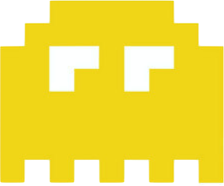
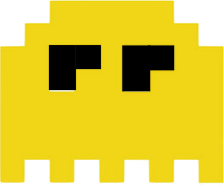
[sprites/ boss] updates enemy sprites. Added death animation to boss

Changed region(s): [[0.1875, 0.2419, 0.4688, 0.5108], [0.5312, 0.2419, 0.7812, 0.5108]]

diff --git a/app.js b/app.js
@@ -17,7 +17,8 @@ const bossSound = document.getElementById('bossSound')
 
 
 // fix button glitch after beating boss
-// add health points to boss
+let bossShooting = 1
+let alienRender = 1
 let alienFireRate = 1300
 let playerFireRate = 0
 let points = 50
@@ -215,7 +216,7 @@ function levelUp() {
     for (let row = 0; row < 5; row++) {
     for(let col = 0; col < 10; col++) {
         const alien = new Aliens (
-            col * 45 + 46, row * 27 + 25, 27,20
+            col * 45 + 46, row * 27 + 25, 35,20
         )
         arrAliens.push(alien)
         }
@@ -520,7 +521,7 @@ class Bullets {
 let fireStatus = true
 const arrBullets = [];
 document.addEventListener('keydown', function(evt) {
-    if (evt.key === 'a' && fireStatus === true && gmLive === 1|| evt.key === 'A' && fireStatus === true && gmLive === 1) {
+    if (evt.key === 'a' && fireStatus === true && gmLive === 1 && bossShooting === 1|| evt.key === 'A' && fireStatus === true && gmLive === 1 && bossShooting === 1) {
         const bullet = new Bullets(player.x - 1 + (player.width/2), player.y - 5, 'white', 3.5, 16)
         arrBullets.push(bullet)
         fireStatus = !fireStatus
@@ -560,6 +561,8 @@ function alienBoom() {
                     && arrBullets[b].y < arrAliens[a].y + 185
                     && arrBullets[b].y + 17 > arrAliens[a].y && level === 5 && bossHealth > 0) {
                     bossHealth -= 1
+                    alienRender = 0
+                    setTimeout(alienRenderBack, 40)
                     arrBullets.splice(b,1)
                     startScore += points
                     enemyHitSound.pause()
@@ -568,17 +571,84 @@ function alienBoom() {
                         && arrBullets[b].x + 3.5 > arrAliens[a].x
                         && arrBullets[b].y < arrAliens[a].y + 185
                         && arrBullets[b].y + 17 > arrAliens[a].y && level === 5 && bossHealth <= 0) {
-                        arrAliens.splice(a,1)
+                        bossShooting = 0    
+                        alienRender = 0
                         arrBullets.splice(b,1)
+                        alienSpeed *= -1
                         startScore += points
-                        levelStatus = "Swarm Defeated"
-                        enemyHitSound.pause()
-                        setTimeout(bssSound, 50)
+
+
+                        setTimeout(alienRenderBack, 40)
+                        setTimeout(bossAnimation, 80)
+                        setTimeout(alienRenderBack, 120)
+                        setTimeout(bossAnimation, 160)
+                        setTimeout(alienRenderBack, 200)
+                        setTimeout(bossAnimation, 240)
+                        setTimeout(alienRenderBack, 280)
+                        setTimeout(bossAnimation, 320)
+                        setTimeout(alienRenderBack, 360)
+                        setTimeout(bossAnimation, 400)
+                        setTimeout(alienRenderBack, 440)
+                        setTimeout(bossAnimation, 480)
+                        setTimeout(alienRenderBack, 520)
+                        setTimeout(bossAnimation, 560)
+                        setTimeout(alienRenderBack, 600)
+                        setTimeout(bossAnimation, 640)
+                        setTimeout(alienRenderBack, 680)
+                        setTimeout(bossAnimation, 720)
+                        setTimeout(alienRenderBack, 760)
+                        setTimeout(bossAnimation, 800)
+                        setTimeout(alienRenderBack, 840)
+                        setTimeout(bossAnimation, 880)
+                        setTimeout(alienRenderBack, 920)
+                        setTimeout(bossAnimation, 960)
+                        setTimeout(alienRenderBack, 1000)
+                        setTimeout(alienRenderBack, 1040)
+                        setTimeout(bossAnimation, 1080)
+                        setTimeout(alienRenderBack, 1120)
+                        setTimeout(bossAnimation, 1160)
+                        setTimeout(alienRenderBack, 1200)
+                        setTimeout(bossAnimation, 1240)
+                        setTimeout(alienRenderBack, 1280)
+                        setTimeout(bossAnimation, 1320)
+                        setTimeout(alienRenderBack, 1360)
+                        setTimeout(bossAnimation, 1400)
+                        setTimeout(alienRenderBack, 1440)
+                        setTimeout(bossAnimation, 1480)
+                        setTimeout(alienRenderBack, 1520)
+                        setTimeout(bossAnimation, 1560)
+                        setTimeout(alienRenderBack, 1600)
+                        setTimeout(bossAnimation, 1640)
+                        setTimeout(alienRenderBack, 1680)
+                        setTimeout(bossAnimation, 1720)
+                        setTimeout(alienRenderBack, 1760)
+                        setTimeout(bossAnimation, 1800)
+                        setTimeout(alienRenderBack, 1840)
+                        setTimeout(bossAnimation, 1880)
+                        setTimeout(alienRenderBack, 1920)
+                        setTimeout(bossAnimation, 1960)
+                        setTimeout(alienRenderBack, 2000)
+
+                        setTimeout(bossDefeat, 2040)
+                        setTimeout(bssSound, 2040)
+                        setTimeout(gameWinStatus, 2040)
                         }
             }
         }
     }
-
+    function bossAnimation() {
+        alienRender = 0
+    }
+    function alienRenderBack() {
+        alienRender = 1
+    }
+    function bossDefeat() {
+        arrAliens.splice(0,1)
+    }
+    function gameWinStatus() {
+        levelStatus = "Swarm Defeated"
+    }
+    
 
 //sets up lost game conditions
 let gameSoundCheck = 1
@@ -675,7 +745,7 @@ class Boosts {
 function boost() {
 const randBoost = 5 + (parseInt(Math.random() * 490))
 
-    const boost = new Boosts(randBoost, 0, 13,13)       
+    const boost = new Boosts(randBoost, 0, 17,17)       
         if (gmLive === 1) {
             arrBoost.push(boost)
         }
@@ -704,7 +774,7 @@ class Hearts {
 function health() {
 const randHeart = 5 + (parseInt(Math.random() * 490))
 
-    const heart = new Hearts(randHeart, 0, 13,13)       
+    const heart = new Hearts(randHeart, 0, 17,17)       
         if (gmLive === 1) {
             arrHearts.push(heart)
         }
@@ -712,10 +782,10 @@ const randHeart = 5 + (parseInt(Math.random() * 490))
 
 function healthUp() {
     for(a = 0; a < arrHearts.length; a++) {
-        if(player.x < arrHearts[a].x + 13 
+        if(player.x < arrHearts[a].x + 17 
              && player.x + player.width > arrHearts[a].x
              && player.y + player.height > arrHearts[a].y 
-             && player.y < arrHearts[a].y + 13) {
+             && player.y < arrHearts[a].y + 17) {
             if(player.alive === true && gmLive === 1 && playerHealth < 3) {
                 playerHealth += 1 }
              if (playerHealth === 3 && gmLive === 1) {
@@ -740,10 +810,10 @@ function boostSound() {
 
 function boostUp() {
     for(a = 0; a < arrBoost.length; a++) {
-        if(player.x < arrBoost[a].x + 13 
+        if(player.x < arrBoost[a].x + 17 
              && player.x + player.width > arrBoost[a].x
              && player.y + player.height > arrBoost[a].y 
-             && player.y < arrBoost[a].y +13) {
+             && player.y < arrBoost[a].y +17) {
                 arrBoost.splice(a,1)
                 playerFireRate = 0
                 setTimeout(speedUp, 5000)
@@ -778,7 +848,7 @@ function rePaint() {
     if(player.alive === true) {
         player.render()
     }
-    if(arrAliens !== 0) {
+    if(arrAliens !== 0 && alienRender === 1) {
     arrAliens.forEach(function (par){
         par.render()
     })

diff --git a/index.html b/index.html
@@ -26,7 +26,7 @@
           <img src="Alien4.png" id = "enemy4">
           <img src="Alien5.png" id = "enemy5">
           <img src="Heart.png" id = "heart">
-          <img src="Star.jpg" id="boostboost">
+          <img src="Star.png" id="boostboost">
 
 
           <audio src="FinalFinal.wav" id = "enemy-hit"></audio>
